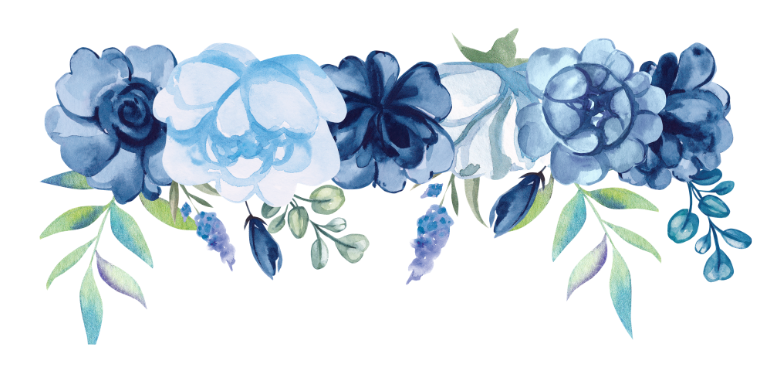
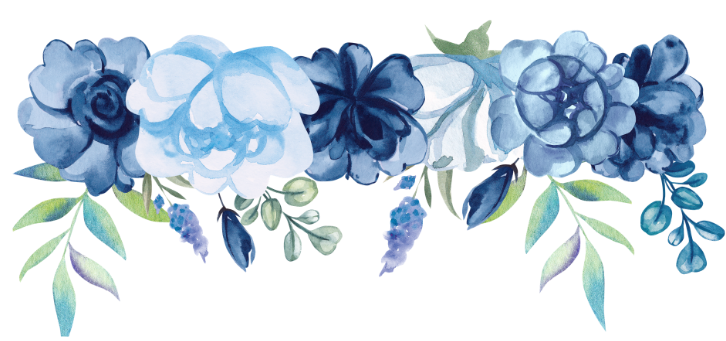
feat: enhance landing page design with new floral decorations, typography, and updated layout assets

diff --git a/src/App.jsx b/src/App.jsx
@@ -8,6 +8,13 @@ import bungaPigura from './assets/bunga-pigura.png';
 import coupleImg from './assets/couple.png';
 import stampImg from './assets/stamp.png';
 import ayatImg from './assets/ayat.png';
+import bungaBorder from './assets/bunga-border.png';
+import bunga5 from './assets/bunga-5.png';
+import bunga6 from './assets/bunga-6.png';
+import couple1Img from './assets/couple-1.png';
+import awanImg from './assets/awan.png';
+import bunga7 from './assets/bunga-7.png';
+import bunga8 from './assets/bunga-8.png';
 
 export default function App() {
   const [isOpened, setIsOpened] = useState(false);
@@ -260,22 +267,71 @@ export default function App() {
               scrollSnapAlign: 'start',
               scrollSnapStop: 'always',
             }}>
+              {/* TOP BORDER */}
+              <img src={bungaBorder} alt="" style={{
+                position: 'absolute',
+                top: 0,
+                left: 0,
+                width: '100%',
+                height: '50vh',
+                objectFit: 'fill',
+                opacity: 0.35,
+                zIndex: 1,
+                pointerEvents: 'none',
+              }} />
+              {/* BOTTOM BORDER (Flipped) */}
+              <img src={bungaBorder} alt="" style={{
+                position: 'absolute',
+                bottom: 0,
+                left: 0,
+                width: '100%',
+                height: '50vh',
+                objectFit: 'fill',
+                opacity: 0.35,
+                zIndex: 1,
+                pointerEvents: 'none',
+                transform: 'scaleY(-1)',
+              }} />
+
+              {/* CORNERS */}
+              {/* Top Left: bunga-5 */}
+              <img src={bunga5} alt="" style={{
+                position: 'absolute',
+                top: -10,
+                left: -10,
+                width: 'clamp(140px, 40vw, 240px)',
+                opacity: 0.9,
+                zIndex: 2,
+                pointerEvents: 'none',
+              }} />
+              {/* Top Right: bunga-1 */}
               <img src={bunga1} alt="" style={{
                 position: 'absolute',
                 top: -8,
                 right: -8,
                 width: 'clamp(180px, 55vw, 380px)',
                 opacity: 0.9,
-                zIndex: 1,
+                zIndex: 2,
                 pointerEvents: 'none',
               }} />
+              {/* Bottom Left: bunga-2 */}
               <img src={bunga2} alt="" style={{
                 position: 'absolute',
                 bottom: -8,
                 left: -8,
                 width: 'clamp(130px, 45vw, 260px)',
                 opacity: 0.9,
-                zIndex: 1,
+                zIndex: 2,
+                pointerEvents: 'none',
+              }} />
+              {/* Bottom Right: bunga-6 */}
+              <img src={bunga6} alt="" style={{
+                position: 'absolute',
+                bottom: -10,
+                right: -10,
+                width: 'clamp(140px, 40vw, 240px)',
+                opacity: 0.9,
+                zIndex: 2,
                 pointerEvents: 'none',
               }} />
 
@@ -286,19 +342,25 @@ export default function App() {
                 display: 'flex',
                 flexDirection: 'column',
                 alignItems: 'center',
-                justifyContent: 'center',
+                justifyContent: 'flex-start',
                 textAlign: 'center',
                 width: '100%',
                 maxWidth: 'min(420px, 90vw)',
                 margin: '0 auto',
-                padding: '0 25px',
+                padding: '20vh 0px 0 0px', // Geser ke atas agar tidak tertutup arch
                 boxSizing: 'border-box',
               }}>
                 <motion.p
                   initial={{ opacity: 0, y: 15 }}
                   animate={{ opacity: 1, y: 0 }}
                   transition={{ delay: 0.2, duration: 0.6 }}
-                  style={{ color: '#888', fontSize: 15.5, marginBottom: 10 }}
+                  style={{
+                    fontFamily: "'Playfair Display', serif",
+                    fontStyle: 'italic',
+                    color: '#888',
+                    fontSize: 16,
+                    marginBottom: 5
+                  }}
                 >
                   The Wedding of
                 </motion.p>
@@ -308,11 +370,11 @@ export default function App() {
                   animate={{ opacity: 1, y: 0 }}
                   transition={{ delay: 0.35, duration: 0.6 }}
                   style={{
-                    fontFamily: "'Mea Culpa', cursive",
-                    fontSize: 'clamp(3.2rem, 12vw, 5.5rem)',
+                    fontFamily: "'Rouge Script', cursive",
+                    fontSize: 'clamp(4rem, 15vw, 6.5rem)',
                     lineHeight: 0.95,
                     color: '#1b2b4a',
-                    margin: '10px 0 6px',
+                    margin: '5px 0 6px',
                   }}
                 >Dhani</motion.h1>
 
@@ -321,10 +383,10 @@ export default function App() {
                   animate={{ opacity: 1, y: 0 }}
                   transition={{ delay: 0.5, duration: 0.6 }}
                   style={{
-                    fontFamily: "'Mea Culpa', cursive",
-                    fontSize: 'clamp(2rem, 8vw, 3.8rem)',
+                    fontFamily: "'Rouge Script', cursive",
+                    fontSize: 'clamp(2.5rem, 10vw, 4.5rem)',
                     color: '#1b2b4a',
-                    margin: '0 0 10px',
+                    margin: '0 0 2px',
                   }}
                 >&amp;</motion.span>
 
@@ -333,11 +395,11 @@ export default function App() {
                   animate={{ opacity: 1, y: 0 }}
                   transition={{ delay: 0.65, duration: 0.6 }}
                   style={{
-                    fontFamily: "'Mea Culpa', cursive",
-                    fontSize: 'clamp(3.2rem, 12vw, 5.5rem)',
+                    fontFamily: "'Rouge Script', cursive",
+                    fontSize: 'clamp(4rem, 15vw, 6.5rem)',
                     lineHeight: 0.95,
                     color: '#1b2b4a',
-                    margin: '6px 0 32px',
+                    margin: '2px 0 16px',
                   }}
                 >Amanda</motion.h1>
 
@@ -345,7 +407,7 @@ export default function App() {
                   initial={{ scaleX: 0 }}
                   animate={{ scaleX: 1 }}
                   transition={{ delay: 0.85, duration: 0.5 }}
-                  style={{ width: 70, height: 2.5, background: '#d4af37', marginBottom: 32, transformOrigin: 'center' }}
+                  style={{ width: 70, height: 2.5, background: '#d4af37', marginBottom: 16, transformOrigin: 'center' }}
                 />
 
                 <motion.p
@@ -353,15 +415,38 @@ export default function App() {
                   animate={{ opacity: 1, y: 0 }}
                   transition={{ delay: 1, duration: 0.6 }}
                   style={{
+                    fontFamily: "'Playfair Display', serif",
+                    fontStyle: 'italic',
                     color: '#555',
-                    fontSize: 15,
-                    lineHeight: 1.85,
+                    fontSize: 14,
+                    lineHeight: 1.5,
                     maxWidth: 290,
                   }}
                 >
-                  By the grace of Allah SWT, we invite you<br/>
-                  to celebrate our wedding ceremony.
+                  Dengan memohon rahmat dan ridho Allah SWT, kami mengundang Bapak/Ibu/Saudara/i untuk menghadiri acara pernikahan kami.
                 </motion.p>
+              </div>
+
+              {/* BOTTOM ARCH & COUPLE */}
+              <div style={{
+                position: 'absolute',
+                bottom: -5,
+                left: 0,
+                width: '100%',
+                display: 'flex',
+                justifyContent: 'center',
+                alignItems: 'flex-end',
+                zIndex: 5,
+                pointerEvents: 'none',
+              }}>
+                <img src={couple1Img} alt="" style={{
+                  width: 'clamp(250px, 85vw, 460px)',
+                  maxHeight: '36vh',
+                  height: 'auto',
+                  objectFit: 'contain',
+                  objectPosition: 'bottom',
+                  display: 'block',
+                }} />
               </div>
             </div>
 
@@ -371,7 +456,7 @@ export default function App() {
               width: '100%',
               height: '100vh',
               overflow: 'hidden',
-              scrollSnapAlign: 'start',
+              scrollSnapAlign:'center',
               scrollSnapStop: 'always',
               background: 'linear-gradient(180deg, #fdfdfc 0%, #f7f4ef 30%, #f5f1eb 100%)',
               display: 'flex',
@@ -379,13 +464,27 @@ export default function App() {
               alignItems: 'center',
               justifyContent: 'flex-start',
             }}>
+              {/* CLOUDS (Awan) */}
+              <div style={{
+                position: 'absolute',
+                top: 0,
+                left: 0,
+                width: '100%',
+                height: '35vh',
+                pointerEvents: 'none',
+                zIndex: 1,
+              }}>
+                <img src={awanImg} alt="" style={{ position: 'absolute', top: '10%', left: '-25%', width: '80%', opacity: 0.9 }} />
+                <img src={awanImg} alt="" style={{ position: 'absolute', top: '-5%', left: '15%', width: '70%', opacity: 0.5 }} />
+                <img src={awanImg} alt="" style={{ position: 'absolute', top: '10%', right: '-25%', width: '80%', opacity: 0.8 }} />
+              </div>
               <div style={{
                 position: 'relative',
                 zIndex: 10,
                 width: '100%',
                 maxWidth: 'min(420px, 90vw)',
                 margin: '0 auto',
-                padding: 'clamp(22px, 4vh, 50px) 25px 0 25px',
+                padding: '28vh 25px 0 25px', // Geser ke bawah agar tidak menabrak awan
                 boxSizing: 'border-box',
                 textAlign: 'center',
                 display: 'flex',
@@ -397,8 +496,9 @@ export default function App() {
                 <p style={{
                   fontFamily: "'Playfair Display', serif",
                   fontStyle: 'italic',
-                  fontSize: 'clamp(14px, 4vw, 18px)',
-                  color: '#1b2b4a',
+                  fontSize: 'clamp(15px, 4.5vw, 20px)',
+                  fontWeight: 700,
+                  color: '#111',
                   marginBottom: 16,
                   letterSpacing: '1px',
                 }}>
@@ -407,52 +507,74 @@ export default function App() {
 
                 {/* Ayat calligraphy image */}
                 <img src={ayatImg} alt="QS Ar-Rum 21" style={{
-                  width: 'clamp(190px, 62vw, 360px)',
+                  width: 'clamp(220px, 70vw, 400px)',
                   height: 'auto',
-                  marginBottom: 'clamp(12px, 2.5vh, 22px)',
+                  marginBottom: 'clamp(18px, 3.5vh, 32px)',
                   objectFit: 'contain',
                 }} />
 
                 {/* English translation */}
                 <p style={{
                   fontFamily: "'Playfair Display', serif",
-                  fontSize: 'clamp(12px, 3.4vw, 16px)',
-                  lineHeight: 1.7,
-                  color: '#444',
-                  maxWidth: 320,
-                  marginBottom: 'clamp(8px, 1.5vh, 14px)',
+                  fontSize: 'clamp(13px, 3.8vw, 17px)',
+                  fontWeight: 600,
+                  lineHeight: 1.6,
+                  color: '#111',
+                  maxWidth: 380,
+                  marginBottom: 'clamp(10px, 2vh, 16px)',
                 }}>
                   &quot;And of His signs is that He created for you from yourselves mates that you may find tranquility in them; and He placed between you affection and mercy. Indeed in that are signs for a people who give thought.&quot;
                 </p>
-
-                {/* Flower divider - bunga-3 */}
-                <img src={bunga3} alt="" style={{
-                  width: 'clamp(100px, 34vw, 180px)',
-                  height: 'auto',
-                  marginBottom: 'clamp(8px, 1.5vh, 14px)',
-                  objectFit: 'contain',
-                  pointerEvents: 'none',
-                }} />
               </div>
 
-              {/* Couple sketch */}
+              {/* BOTTOM SCENE */}
               <div style={{
-                flex: '1 1 auto',
+                position: 'absolute',
+                bottom: 0,
+                left: 0,
                 width: '100%',
+                height: '60vh',
                 display: 'flex',
                 alignItems: 'flex-end',
-                justifyContent: 'flex-end',
+                justifyContent: 'flex-end', // Kanan bawah
                 overflow: 'hidden',
-                position: 'relative',
                 zIndex: 5,
+                pointerEvents: 'none',
               }}>
+                {/* Couple */}
                 <img src={coupleImg} alt="Couple illustration" style={{
-                  width: 'clamp(260px, 75vw, 460px)',
+                  width: 'clamp(220px, 60vw, 380px)',
                   height: 'auto',
                   objectFit: 'contain',
                   objectPosition: 'bottom',
                   display: 'block',
+                  zIndex: 6,
+                  marginRight: '-5vw',
+                  marginBottom: -5, // Tumpuk ke bawah agar tidak ada space
+                }} />
 
+                {/* Bunga-8 Left Corner */}
+                <img src={bunga8} alt="" style={{
+                  position: 'absolute',
+                  bottom: -10,
+                  left: -15,
+                  width: 'clamp(120px, 35vw, 200px)', // Diperkecil
+                  zIndex: 8,
+                  objectFit: 'contain',
+                }} />
+
+                {/* Bunga-7 Repeating Bottom Border */}
+                <div style={{
+                  position: 'absolute',
+                  bottom: -2,
+                  left: 30,
+                  width: '100%',
+                  height: 'clamp(135px, 40vw, 200px)',
+                  backgroundImage: `url(${bunga7})`,
+                  backgroundSize: 'contain',
+                  backgroundRepeat: 'repeat-x',
+                  backgroundPosition: 'bottom right',
+                  zIndex: 7,
                 }} />
               </div>
             </div>

diff --git a/src/index.css b/src/index.css
@@ -1,4 +1,4 @@
-@import url('https://fonts.googleapis.com/css2?family=Fleur+De+Leah&family=Imperial+Script&family=Mea+Culpa&family=Playfair+Display:ital,wght@0,400;0,600;1,400&display=swap');
+@import url('https://fonts.googleapis.com/css2?family=Fleur+De+Leah&family=Imperial+Script&family=Mea+Culpa&family=Playfair+Display:ital,wght@0,400;0,600;1,400&family=Rouge+Script&display=swap');
 @import "tailwindcss";
 
 /* Opsional: Membuat scrollbar tidak terlihat tapi tetap bisa di-scroll */